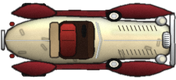
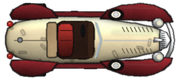
M004.1: cars with an unmistakable front and back
- Sedan, Roadster and squad car repainted (same 176 x 80 templates, same
  display size, handling and wheels untouched): a long hood narrowing to
  a slim V radiator with a chrome mascot, big headlamps between front
  wings that sweep forward to points, a bowed bumper narrower than the
  wings and a bright windscreen at the front of a cabin set back; a full,
  rounded tail with the spare under a painted cover, dull bumperettes and
  larger red tail lamps. All the bright chrome is at the nose, so the
  way a car faces reads with its lights off. The Roadster's boat tail is
  rounded and dark instead of pointed.
- Headlight and tail-lamp glow positions moved onto the new lamps; the
  asset notes say where the lamps are for custom car art.
- Tests: test_vehicle_art (lamps painted where the lights shine, chrome
  at the nose and none at the tail, for every paint scheme). A "cars"
  screenshot shot parks the cars in six headings with the lights off.

Tests: 268/268 passing (42 scripts).

Claude-Session: https://claude.ai/code/session_01HoR6KCEp3G66syjHABb7zF

diff --git a/tools/template_art/paint_vehicles.py b/tools/template_art/paint_vehicles.py
@@ -54,64 +54,109 @@ def sheen(img, pts, alpha=60, blur=2.0):
     img.alpha_composite(layer.filter(ImageFilter.GaussianBlur(blur * SS)))
 
 
+def mirror(pts):
+    """The same outline on the other side of the car (y mirrored about the centre line)."""
+    return [(x, CH - y) for x, y in reversed(pts)]
+
+
+# Wing outlines for the top side of the car (template px); mirror() gives the other side.
+# Front wings are teardrops that sweep forward and in to a point beside the radiator,
+# rear wings are short and round: the nose reads narrow and pointed, the tail full.
+FRONT_WING = [(104, 17.5), (110, 11), (122, 6), (136, 3.6), (150, 5.2), (161, 9.5), (168, 15), (170.5, 20.5),
+              (166, 22), (156, 20.5), (140, 19), (122, 18.5)]
+REAR_WING = [(64, 17.5), (58, 10), (48, 5.2), (36, 3.6), (24, 5), (15, 9), (11, 14.5), (12, 19), (22, 19.5), (44, 19)]
+
+
+def wings(img, color, seed, front=FRONT_WING, rear=REAR_WING):
+    for k, pts in enumerate((front, mirror(front), rear, mirror(rear))):
+        paint_shape(img, SP(pts), color, seed + k, outline=OUT, ow=1.6, wob=0.25, tex=0.18, light=(0.3, -1, 0.5))
+    # a crease of light along each front wing
+    for pts in (front, mirror(front)):
+        xs = [x for x, _ in pts]
+        top = min(pts, key=lambda p: abs(p[0] - 140))
+        sheen(img, [(118, top[1] + 3), (158, top[1] + 4), (158, top[1] + 5.5), (118, top[1] + 4.5)], 45, 1.0)
+
+
+def radiator(img, seed, x0=160, half=10.5):
+    """A narrow V-fronted radiator shell with vertical slats and a mascot on the cap (points forward, +X)."""
+    shell = [(x0, 40 - half), (x0 + 6, 40 - half + 2.5), (x0 + 10.5, 40), (x0 + 6, 40 + half - 2.5), (x0, 40 + half)]
+    paint_shape(img, SP(shell), CHROME, seed, outline=OUT, ow=1.1, wob=0.08, light=(1, -1, 0.45))
+    d = ImageDraw.Draw(img)
+    for y in range(int(40 - half + 3), int(40 + half - 2), 2):
+        d.line([(S(x0 + 1.5), S(y)), (S(x0 + 5.5 - abs(y - 40) * 0.12), S(y))], fill=rgba("#3a3e40"), width=1)
+    # the mascot on the radiator cap: a bright chrome teardrop pointing ahead
+    paint_shape(img, SP([(x0 - 6, 37.8), (x0 + 1, 39), (x0 + 3.5, 40), (x0 + 1, 41), (x0 - 6, 42.2)]), "#eef0f1", seed + 1,
+                outline=OUT, ow=0.6, wob=0.02, light=(1, -1, 0.5))
+
+
+def front_bumper(img, seed, top=21.5, x=169.5):
+    """A chrome bumper bowed forward in the middle, narrower than the wings."""
+    pts = [(x - 1.5, top), (x + 2.6, 30), (x + 4.4, 40), (x + 2.6, 80 - 30), (x - 1.5, 80 - top),
+           (x - 4.2, 80 - top), (x - 0.6, 80 - 30), (x + 1.2, 40), (x - 0.6, 30), (x - 4.2, top)]
+    paint_shape(img, SP(pts), CHROME, seed, outline=OUT, ow=1.0, wob=0.05, light=(1, -1, 0.4))
+
+
+def windscreen(img, x0, x1, top, seed, split=True):
+    """A bright, slanted windscreen with a highlight: the brightest glass on the car, at the front of the cabin."""
+    pts = [(x0, top), (x1, top + 3.5), (x1, 80 - top - 3.5), (x0, 80 - top)]
+    paint_shape(img, SP(pts), "#6f97b2", seed, outline=OUT, ow=1.2, wob=0.1, tex=0.08, light=(1, -1, 0.6))
+    line(img, [(S(x0 + 2.5), S(top + 4)), (S(x1 - 1.5), S(top + 9))], "#e6f2fa", 1.3 * SS, 190, blur=0.4)
+    if split:
+        line(img, [(S(x0 + 0.5), S(40)), (S(x1 - 0.5), S(40))], CHROME_DARK, 1.0 * SS, 230)
+
+
 def sedan(body="#1d2b25", roof=None, seed=1):
     roof = roof or shade(body, 1.18)
     img = new(CW, CH)
-    # rear tyres peeking from under the fenders (the front ones are cars/wheel, turned by the steering)
+    # rear tyres peeking from under the wings (the front ones are cars/wheel, turned by the steering)
     tyre_top(img, 26, 3.5, 50, 11, seed)
     tyre_top(img, 26, 69, 50, 76.5, seed + 1)
     # running boards
-    for y0, y1 in ((10, 17), (63, 70)):
-        paint_shape(img, SP(rrect_pts(52, y0, 120, y1, 2)), "#1b1b1c", seed + 2, outline=OUT, ow=1, wob=0.2, tex=0.3)
-        ImageDraw.Draw(img).line([(S(54), S((y0 + y1) / 2)), (S(118), S((y0 + y1) / 2))], fill=rgba("#55585a"), width=SS)
-    # body: trunk + cabin + hood in one organic outline
-    body_pts = [(14, 30), (18, 21), (30, 18), (52, 15.5), (104, 15.5), (112, 19.5), (162, 21), (170, 26),
-                (172, 40), (170, 54), (162, 59), (112, 60.5), (104, 64.5), (52, 64.5), (30, 62), (18, 59), (14, 50)]
-    paint_shape(img, SP(body_pts), body, seed + 3, outline=OUT, ow=1.8, wob=0.35, tex=0.12, strokes_n=14, stroke_cols=[shade(body, 1.08), shade(body, 0.94)],
-                light=(0.2, -1, 0.45), inner_shadow=0.35)
-    # fenders over the tyres
-    for side, cy in ((-1, 13.5), (1, 66.5)):
-        paint_shape(img, SP(fender(38, cy, 24, 9.5, 0.35, 0.65, side)), shade(body, 0.92), seed + 4 + cy, outline=OUT,
-                    ow=1.6, wob=0.3, tex=0.18, light=(0.3, -1, 0.5))
-        paint_shape(img, SP(fender(140, cy, 33, 10, 0.75, 0.35, side)), shade(body, 0.92), seed + 6 + cy, outline=OUT,
-                    ow=1.6, wob=0.3, tex=0.18, light=(0.3, -1, 0.5))
-    # hood: louvres and the centre hinge strip
-    d = ImageDraw.Draw(img)
-    for x in range(124, 152, 4):
-        for y0 in (25, 50):
-            line(img, [(S(x), S(y0)), (S(x + 2), S(y0 + 5))], "#0c100e", 1.4 * SS, 220, blur=0.2)
-    line(img, [(S(110), S(40)), (S(168), S(40))], CHROME, 1.4 * SS, 230, blur=0.2)
-    # cabin roof with windscreen and rear window
-    paint_shape(img, SP([(104, 22), (111, 26), (111, 54), (104, 58)]), "#2a3a48", seed + 8, outline=OUT, ow=1.2, wob=0.15, tex=0.1,
-                light=(0, -1, 0.6))
-    paint_shape(img, SP([(50, 24), (56, 21), (56, 59), (50, 56)]), "#2a3a48", seed + 9, outline=OUT, ow=1.0, wob=0.15, tex=0.1)
-    paint_shape(img, SP(rrect_pts(55, 19.5, 104, 60.5, 7)), roof, seed + 10, outline=OUT, ow=1.6, wob=0.25, tex=0.1,
+    for y0, y1 in ((11, 18), (62, 69)):
+        paint_shape(img, SP(rrect_pts(56, y0, 116, y1, 2)), "#1b1b1c", seed + 2, outline=OUT, ow=1, wob=0.2, tex=0.3)
+        ImageDraw.Draw(img).line([(S(58), S((y0 + y1) / 2)), (S(114), S((y0 + y1) / 2))], fill=rgba("#55585a"), width=SS)
+    # body: a full, rounded trunk at the back, the cabin set back, a long hood narrowing to the radiator
+    body_pts = [(8, 34), (10, 25), (17, 19), (30, 16), (56, 15.5), (100, 16), (110, 18.5), (132, 22), (150, 26), (161, 29.5),
+                (161, 50.5), (150, 54), (132, 58), (110, 61.5), (100, 64), (56, 64.5), (30, 64), (17, 61), (10, 55), (8, 46)]
+    paint_shape(img, SP(body_pts), body, seed + 3, outline=OUT, ow=1.8, wob=0.35, tex=0.12, strokes_n=14,
+                stroke_cols=[shade(body, 1.08), shade(body, 0.94)], light=(0.2, -1, 0.45), inner_shadow=0.35)
+    wings(img, shade(body, 0.9), seed + 4)
+    # hood: louvres down both sides, the hinge strip along the middle
+    for x in range(118, 150, 4):
+        for y0 in (27, 48):
+            line(img, [(S(x), S(y0)), (S(x + 2), S(y0 + 4.5))], "#0c100e", 1.3 * SS, 220, blur=0.2)
+    line(img, [(S(110), S(40)), (S(158), S(40))], CHROME, 1.3 * SS, 230, blur=0.2)
+    radiator(img, seed + 5)
+    # the cabin: roof set back, a big bright windscreen at its front, a small rear window
+    paint_shape(img, SP([(46, 27), (53, 24), (53, 56), (46, 53)]), "#22303a", seed + 9, outline=OUT, ow=1.0, wob=0.15, tex=0.1)
+    paint_shape(img, SP(rrect_pts(52, 19, 100, 61, 7)), roof, seed + 10, outline=OUT, ow=1.6, wob=0.25, tex=0.1,
                 strokes_n=10, stroke_cols=[shade(roof, 1.06), shade(roof, 0.95)], light=(0.1, -1, 0.5), inner_shadow=0.25)
-    # side glass strips
+    windscreen(img, 99, 109, 20.5, seed + 8)
     for y0, y1 in ((16.5, 19.5), (60.5, 63.5)):
-        paint_shape(img, SP(rrect_pts(58, y0, 100, y1, 1)), "#2c3c4a", seed + 11, outline=None, wob=0.1, tex=0.1)
-    # trunk lid line, spare tyre and bumpers
-    line(img, [(S(34), S(22)), (S(34), S(58))], shade(body, 0.6), 1.2 * SS, 200)
-    paint_shape(img, SP(rrect_pts(4, 27, 15, 53, 4)), TYRE, seed + 12, outline=OUT, ow=1, wob=0.15, tex=0.2)
-    paint_shape(img, SP(rrect_pts(6.5, 33, 12.5, 47, 2)), CHROME, seed + 13, outline=None, wob=0.1, light=(0, -1, 0.4))
-    chrome_bar(img, 1.5, 15, 5, 65, seed + 14)
-    chrome_bar(img, 171, 13, 175, 67, seed + 15)
-    # grille shell + radiator cap, headlamps, horns
-    paint_shape(img, SP(rrect_pts(164, 31, 171, 49, 2.5)), CHROME, seed + 16, outline=OUT, ow=1, wob=0.1, light=(1, -1, 0.4))
-    for y in range(33, 48, 2):
-        d.line([(S(165.5), S(y)), (S(169.5), S(y))], fill=rgba("#3a3e40"), width=1)
-    lamp(img, 162, 20, 4.2, seed + 17)
-    lamp(img, 162, 60, 4.2, seed + 18)
-    # tail lamps
-    for y in (12, 68):
-        paint_shape(img, SP(ellipse_pts(19, y, 2.4, 2)), "#8a1a16", seed + 19, outline=OUT, ow=0.8, wob=0.1)
-    # door handles and the beltline chrome
-    for x in (66, 92):
-        d.line([(S(x), S(18)), (S(x + 3), S(18))], fill=rgba(CHROME), width=SS)
-        d.line([(S(x), S(62)), (S(x + 3), S(62))], fill=rgba(CHROME), width=SS)
+        paint_shape(img, SP(rrect_pts(56, y0, 98, y1, 1)), "#2c3c4a", seed + 11, outline=None, wob=0.1, tex=0.1)
+    # the back: trunk lid, the spare wheel under a painted cover, two dull bumperettes, red tail lamps
+    # (all the bright chrome is at the nose, so the front reads even with the lamps off)
+    line(img, [(S(30), S(23)), (S(30), S(57))], shade(body, 0.6), 1.2 * SS, 200)
+    paint_shape(img, SP(rrect_pts(2, 27, 12, 53, 4)), shade(body, 0.8), seed + 12, outline=OUT, ow=1.1, wob=0.15, tex=0.2,
+                light=(0.3, -1, 0.4))
+    line(img, [(S(7), S(29)), (S(7), S(51))], shade(body, 0.55), 1.0 * SS, 200)
+    for y0, y1 in ((15, 25), (55, 65)):
+        paint_shape(img, SP(rrect_pts(2.5, y0, 5.5, y1, 1.5)), CHROME_DARK, seed + 14 + y0, outline=OUT, ow=0.9, wob=0.05)
+    for y in (15, 65):
+        paint_shape(img, SP(ellipse_pts(13.5, y, 3.4, 3.0)), "#b3221c", seed + 19, outline=OUT, ow=0.8, wob=0.1)
+        soft_blob(img, S(13), S(y - 0.6), S(1.3), S(1.1), "#ffb0a0", 160, 0.4 * SS)
+    # the front: big headlamps between the wings and the radiator, a bowed bumper narrower than the wings
+    lamp(img, 157, 23.5, 4.8, seed + 17)
+    lamp(img, 157, 56.5, 4.8, seed + 18)
+    front_bumper(img, seed + 15)
+    # door handles and the belt-line chrome
+    d = ImageDraw.Draw(img)
+    for x in (64, 90):
+        d.line([(S(x), S(17.5)), (S(x + 3), S(17.5))], fill=rgba(CHROME), width=SS)
+        d.line([(S(x), S(62.5)), (S(x + 3), S(62.5))], fill=rgba(CHROME), width=SS)
     # highlights on hood and roof (wet paint)
-    sheen(img, [(114, 30), (160, 31), (160, 34), (114, 34)], 55, 1.6)
-    sheen(img, [(62, 26), (98, 26), (98, 31), (62, 31)], 50, 2.2)
+    sheen(img, [(114, 31), (152, 32), (152, 34.5), (114, 34)], 55, 1.6)
+    sheen(img, [(60, 26), (96, 26), (96, 31), (60, 31)], 50, 2.2)
     return finish(grain(img, 3, seed), CW, CH)
 
 
@@ -119,56 +164,53 @@ def coupe(body="#e3d4ac", fend="#6a1d22", seat="#7b2420", seed=5):
     img = new(CW, CH)
     tyre_top(img, 22, 3.5, 46, 11, seed)
     tyre_top(img, 22, 69, 46, 76.5, seed + 1)
-    for y0, y1 in ((10.5, 17), (63, 69.5)):
-        paint_shape(img, SP(rrect_pts(48, y0, 120, y1, 2)), fend, seed + 2, outline=OUT, ow=1, wob=0.2, tex=0.25)
-    # boat-tail body: long hood, short cockpit, tapering tail
-    body_pts = [(4, 40), (8, 31), (18, 24), (40, 18), (60, 16), (100, 17), (112, 20.5), (162, 22), (169, 27),
-                (171, 40), (169, 53), (162, 58), (112, 59.5), (100, 63), (60, 64), (40, 62), (18, 56), (8, 49)]
-    paint_shape(img, SP(body_pts), body, seed + 3, outline=OUT, ow=1.8, wob=0.35, tex=0.1, strokes_n=14, stroke_cols=[shade(body, 1.06), shade(body, 0.95)],
-                light=(0.2, -1, 0.4), inner_shadow=0.3)
-    # tail centre strip
-    line(img, [(S(6), S(40)), (S(58), S(40))], CHROME, 1.4 * SS, 230, blur=0.2)
-    # cockpit: open, red leather bench, steering wheel, dash
-    paint_shape(img, SP(rrect_pts(58, 21, 94, 59, 8)), "#2a1a14", seed + 4, outline=OUT, ow=1.4, wob=0.2, tex=0.2)
-    paint_shape(img, SP(rrect_pts(60, 23, 76, 57, 6)), seat, seed + 5, outline=OUT, ow=1.0, wob=0.2, tex=0.25, light=(0, -1, 0.5))
+    for y0, y1 in ((11.5, 18), (62, 68.5)):
+        paint_shape(img, SP(rrect_pts(50, y0, 118, y1, 2)), fend, seed + 2, outline=OUT, ow=1, wob=0.2, tex=0.25)
+    # long hood narrowing to the radiator, a short cockpit set back, a rounded boat-tail deck
+    body_pts = [(6, 36), (8, 29), (16, 23), (34, 18.5), (58, 16.5), (98, 17), (112, 20), (136, 23.5), (152, 27), (161, 30),
+                (161, 50), (152, 53), (136, 56.5), (112, 60), (98, 63), (58, 63.5), (34, 61.5), (16, 57), (8, 51), (6, 44)]
+    paint_shape(img, SP(body_pts), body, seed + 3, outline=OUT, ow=1.8, wob=0.35, tex=0.1, strokes_n=14,
+                stroke_cols=[shade(body, 1.06), shade(body, 0.95)], light=(0.2, -1, 0.4), inner_shadow=0.3)
+    front = [(100, 18.5), (108, 10.5), (122, 5.5), (140, 3.6), (154, 5.5), (164, 10), (171, 16.5), (172.5, 21.5),
+             (167, 23), (156, 21.5), (140, 20), (118, 19.5)]
+    rear = [(58, 17.5), (52, 10), (42, 5), (32, 3.6), (21, 5), (13, 9.5), (10, 15), (12, 19.5), (24, 20), (42, 19)]
+    wings(img, fend, seed + 9, front, rear)
+    # tail: the chrome strip down the deck, a fuel cap, round tail lamps
+    line(img, [(S(14), S(40)), (S(48), S(40))], shade(body, 0.6), 1.3 * SS, 220, blur=0.2)
+    paint_shape(img, SP(ellipse_pts(20, 40, 2.4, 2.4)), CHROME_DARK, seed + 30, outline=OUT, ow=0.6, wob=0.02)
+    for y in (24, 56):
+        paint_shape(img, SP(ellipse_pts(10, y, 3.0, 2.7)), "#b3221c", seed + 23, outline=OUT, ow=0.8, wob=0.1)
+        soft_blob(img, S(9.6), S(y - 0.5), S(1.1), S(0.9), "#ffb0a0", 160, 0.4 * SS)
+    # cockpit: open, red leather bench at the back of it, the steering wheel and dash at the front
+    paint_shape(img, SP(rrect_pts(56, 21, 94, 59, 8)), "#2a1a14", seed + 4, outline=OUT, ow=1.4, wob=0.2, tex=0.2)
+    paint_shape(img, SP(rrect_pts(58, 23, 73, 57, 6)), seat, seed + 5, outline=OUT, ow=1.0, wob=0.2, tex=0.25, light=(0, -1, 0.5))
     d = ImageDraw.Draw(img)
     for y in (30, 40, 50):
-        d.line([(S(62), S(y)), (S(74), S(y))], fill=rgba(shade(seat, 0.65)), width=SS)
+        d.line([(S(60), S(y)), (S(71), S(y))], fill=rgba(shade(seat, 0.65)), width=SS)
     paint_shape(img, SP(rrect_pts(88, 22, 93, 58, 2)), "#3a2418", seed + 6, outline=None, wob=0.1, tex=0.2)
-    paint_shape(img, SP(ellipse_pts(84, 31, 2.2, 6.5)), "#141414", seed + 7, outline=None, wob=0.05)
-    line(img, [(S(84), S(26)), (S(84), S(36))], "#141414", 1.2 * SS, 255)
+    paint_shape(img, SP(ellipse_pts(83, 31, 2.2, 6.5)), "#141414", seed + 7, outline=None, wob=0.05)
+    line(img, [(S(83), S(26)), (S(83), S(36))], "#141414", 1.2 * SS, 255)
     # folded tan top behind the seat
-    paint_shape(img, SP(rrect_pts(50, 22, 59, 58, 3)), "#b49a72", seed + 8, outline=OUT, ow=1.0, wob=0.2, tex=0.25)
-    # V windscreen
-    line(img, [(S(96), S(22)), (S(100), S(40)), (S(96), S(58))], CHROME, 1.6 * SS, 240, blur=0.2)
-    line(img, [(S(97.5), S(23)), (S(101.5), S(40)), (S(97.5), S(57))], "#9fb6c8", 1.2 * SS, 140, blur=0.3)
-    # fenders (dark two-tone), long and swept
-    for side, cy in ((-1, 13.5), (1, 66.5)):
-        paint_shape(img, SP(fender(34, cy, 22, 9.5, 0.3, 0.7, side)), fend, seed + 9 + cy, outline=OUT, ow=1.6, wob=0.3,
-                    tex=0.18, light=(0.3, -1, 0.5))
-        paint_shape(img, SP(fender(140, cy, 34, 10, 0.8, 0.3, side)), fend, seed + 11 + cy, outline=OUT, ow=1.6, wob=0.3,
-                    tex=0.18, light=(0.3, -1, 0.5))
-        # side-mounted spare wheel sitting in the front fender
-        sy = cy + (2.5 if side < 0 else -2.5)
-        paint_shape(img, SP(ellipse_pts(114, sy, 7.5, 5.5)), TYRE, seed + 13 + cy, outline=OUT, ow=1, wob=0.1, tex=0.2)
-        paint_shape(img, SP(ellipse_pts(114, sy, 4.6, 3.2)), "#ece6d6", seed + 15 + cy, outline=None, wob=0.05)
-        paint_shape(img, SP(ellipse_pts(114, sy, 2.4, 1.8)), CHROME, seed + 17 + cy, outline=None, wob=0.05)
+    paint_shape(img, SP(rrect_pts(47, 22, 57, 58, 3)), "#b49a72", seed + 8, outline=OUT, ow=1.0, wob=0.2, tex=0.25)
+    # V windscreen in a chrome frame, pointing ahead
+    line(img, [(S(95), S(22)), (S(100), S(40)), (S(95), S(58))], CHROME, 1.8 * SS, 240, blur=0.2)
+    line(img, [(S(96.8), S(23)), (S(101.8), S(40)), (S(96.8), S(57))], "#9fc4dc", 1.5 * SS, 200, blur=0.3)
+    # side-mounted spare wheels sitting in the front wings
+    for sy in (14.5, 65.5):
+        paint_shape(img, SP(ellipse_pts(116, sy, 7.5, 5.5)), TYRE, seed + 13 + sy, outline=OUT, ow=1, wob=0.1, tex=0.2)
+        paint_shape(img, SP(ellipse_pts(116, sy, 4.6, 3.2)), "#ece6d6", seed + 15 + sy, outline=None, wob=0.05)
+        paint_shape(img, SP(ellipse_pts(116, sy, 2.4, 1.8)), CHROME, seed + 17 + sy, outline=None, wob=0.05)
     # hood louvres and centre line
-    for x in range(118, 156, 4):
-        for y0 in (25.5, 49.5):
-            line(img, [(S(x), S(y0)), (S(x + 2), S(y0 + 5))], shade(body, 0.55), 1.3 * SS, 220, blur=0.2)
-    line(img, [(S(104), S(40)), (S(167), S(40))], CHROME, 1.3 * SS, 230, blur=0.2)
-    chrome_bar(img, 170.5, 14, 174.5, 66, seed + 18)
-    chrome_bar(img, 1.5, 30, 4.5, 50, seed + 19)
-    paint_shape(img, SP(rrect_pts(163, 32, 170, 48, 3)), CHROME, seed + 20, outline=OUT, ow=1, wob=0.1, light=(1, -1, 0.4))
-    for y in range(34, 47, 2):
-        ImageDraw.Draw(img).line([(S(164.5), S(y)), (S(168.5), S(y))], fill=rgba("#3a3e40"), width=1)
-    lamp(img, 161, 21, 5.2, seed + 21)
-    lamp(img, 161, 59, 5.2, seed + 22)
-    for y in (24, 56):
-        paint_shape(img, SP(ellipse_pts(12, y, 2.2, 1.8)), "#8a1a16", seed + 23, outline=OUT, ow=0.8, wob=0.1)
-    sheen(img, [(112, 30), (160, 31), (160, 34), (112, 34)], 70, 1.6)
-    sheen(img, [(12, 33), (50, 30), (50, 33), (12, 36)], 45, 1.8)
+    for x in range(122, 152, 4):
+        for y0 in (27, 48.5):
+            line(img, [(S(x), S(y0)), (S(x + 2), S(y0 + 4.5))], shade(body, 0.55), 1.3 * SS, 220, blur=0.2)
+    line(img, [(S(104), S(40)), (S(157), S(40))], CHROME, 1.3 * SS, 230, blur=0.2)
+    radiator(img, seed + 20, x0=160, half=10)
+    lamp(img, 158, 23, 5.4, seed + 21)
+    lamp(img, 158, 57, 5.4, seed + 22)
+    front_bumper(img, seed + 18, top=22.5, x=170)
+    sheen(img, [(112, 31), (152, 32), (152, 34.5), (112, 34)], 70, 1.6)
+    sheen(img, [(12, 33), (46, 30.5), (46, 33), (12, 36)], 45, 1.8)
     return finish(grain(img, 3, seed), CW, CH)
 
 

diff --git a/docs/ASSET_SPECS.md b/docs/ASSET_SPECS.md
@@ -14,10 +14,10 @@ image is its window light at night and is replaced separately. Cars and people f
 
 | Logical name | Override path | Template px | Kind | In the world | Notes |
 | --- | --- | --- | --- | --- | --- |
-| `cars/coupe` | `custom/graphics/cars/coupe.png` | 176x80 | sprite (image, scaled to its display size) | 80x36 | Roadster, top-down, nose right, centred, transparent background. |
+| `cars/coupe` | `custom/graphics/cars/coupe.png` | 176x80 | sprite (image, scaled to its display size) | 80x36 | Roadster, top-down, nose right, centred, transparent background; front tyres left out. Headlamps at (32, +-7.6), tail lamps at (-35.5, +-7.2) display px. |
 | `cars/coupe_b` | `custom/graphics/cars/coupe_b.png` | 176x80 | sprite (image, scaled to its display size) | 80x36 | Roadster, second paint scheme; same contract. |
 | `cars/police` | `custom/graphics/cars/police.png` | 176x80 | sprite (image, scaled to its display size) | 80x36 | Police squad car (sedan body): black, POLICE across the roof, siren, spotlight. |
-| `cars/sedan` | `custom/graphics/cars/sedan.png` | 176x80 | sprite (image, scaled to its display size) | 80x36 | Sedan, top-down, nose right, centred, transparent background. |
+| `cars/sedan` | `custom/graphics/cars/sedan.png` | 176x80 | sprite (image, scaled to its display size) | 80x36 | Sedan, top-down, nose right, centred, transparent background; front tyres left out (cars/wheel). Keep the nose recognisable: radiator, headlamps (31, +-7 display px from the centre) and windscreen at the right, red tail lamps (-34, +-11) at the left. |
 | `cars/sedan_b` | `custom/graphics/cars/sedan_b.png` | 176x80 | sprite (image, scaled to its display size) | 80x36 | Sedan, second paint scheme; same contract. |
 | `cars/wheel` | `custom/graphics/cars/wheel.png` | 48x20 | sprite (image, scaled to its display size) | 14x6 | Front tyre (whitewall) from above, rolling direction left-right; drawn under the body on both sides and turned with the steering (car bodies leave the front tyres out). |
 | `characters/barber` | `custom/graphics/characters/barber.png` | 320x64 | sheet (horizontal strip of equal frames) | 5 frames, each 44x44 | Sal the barber in his white coat. |
